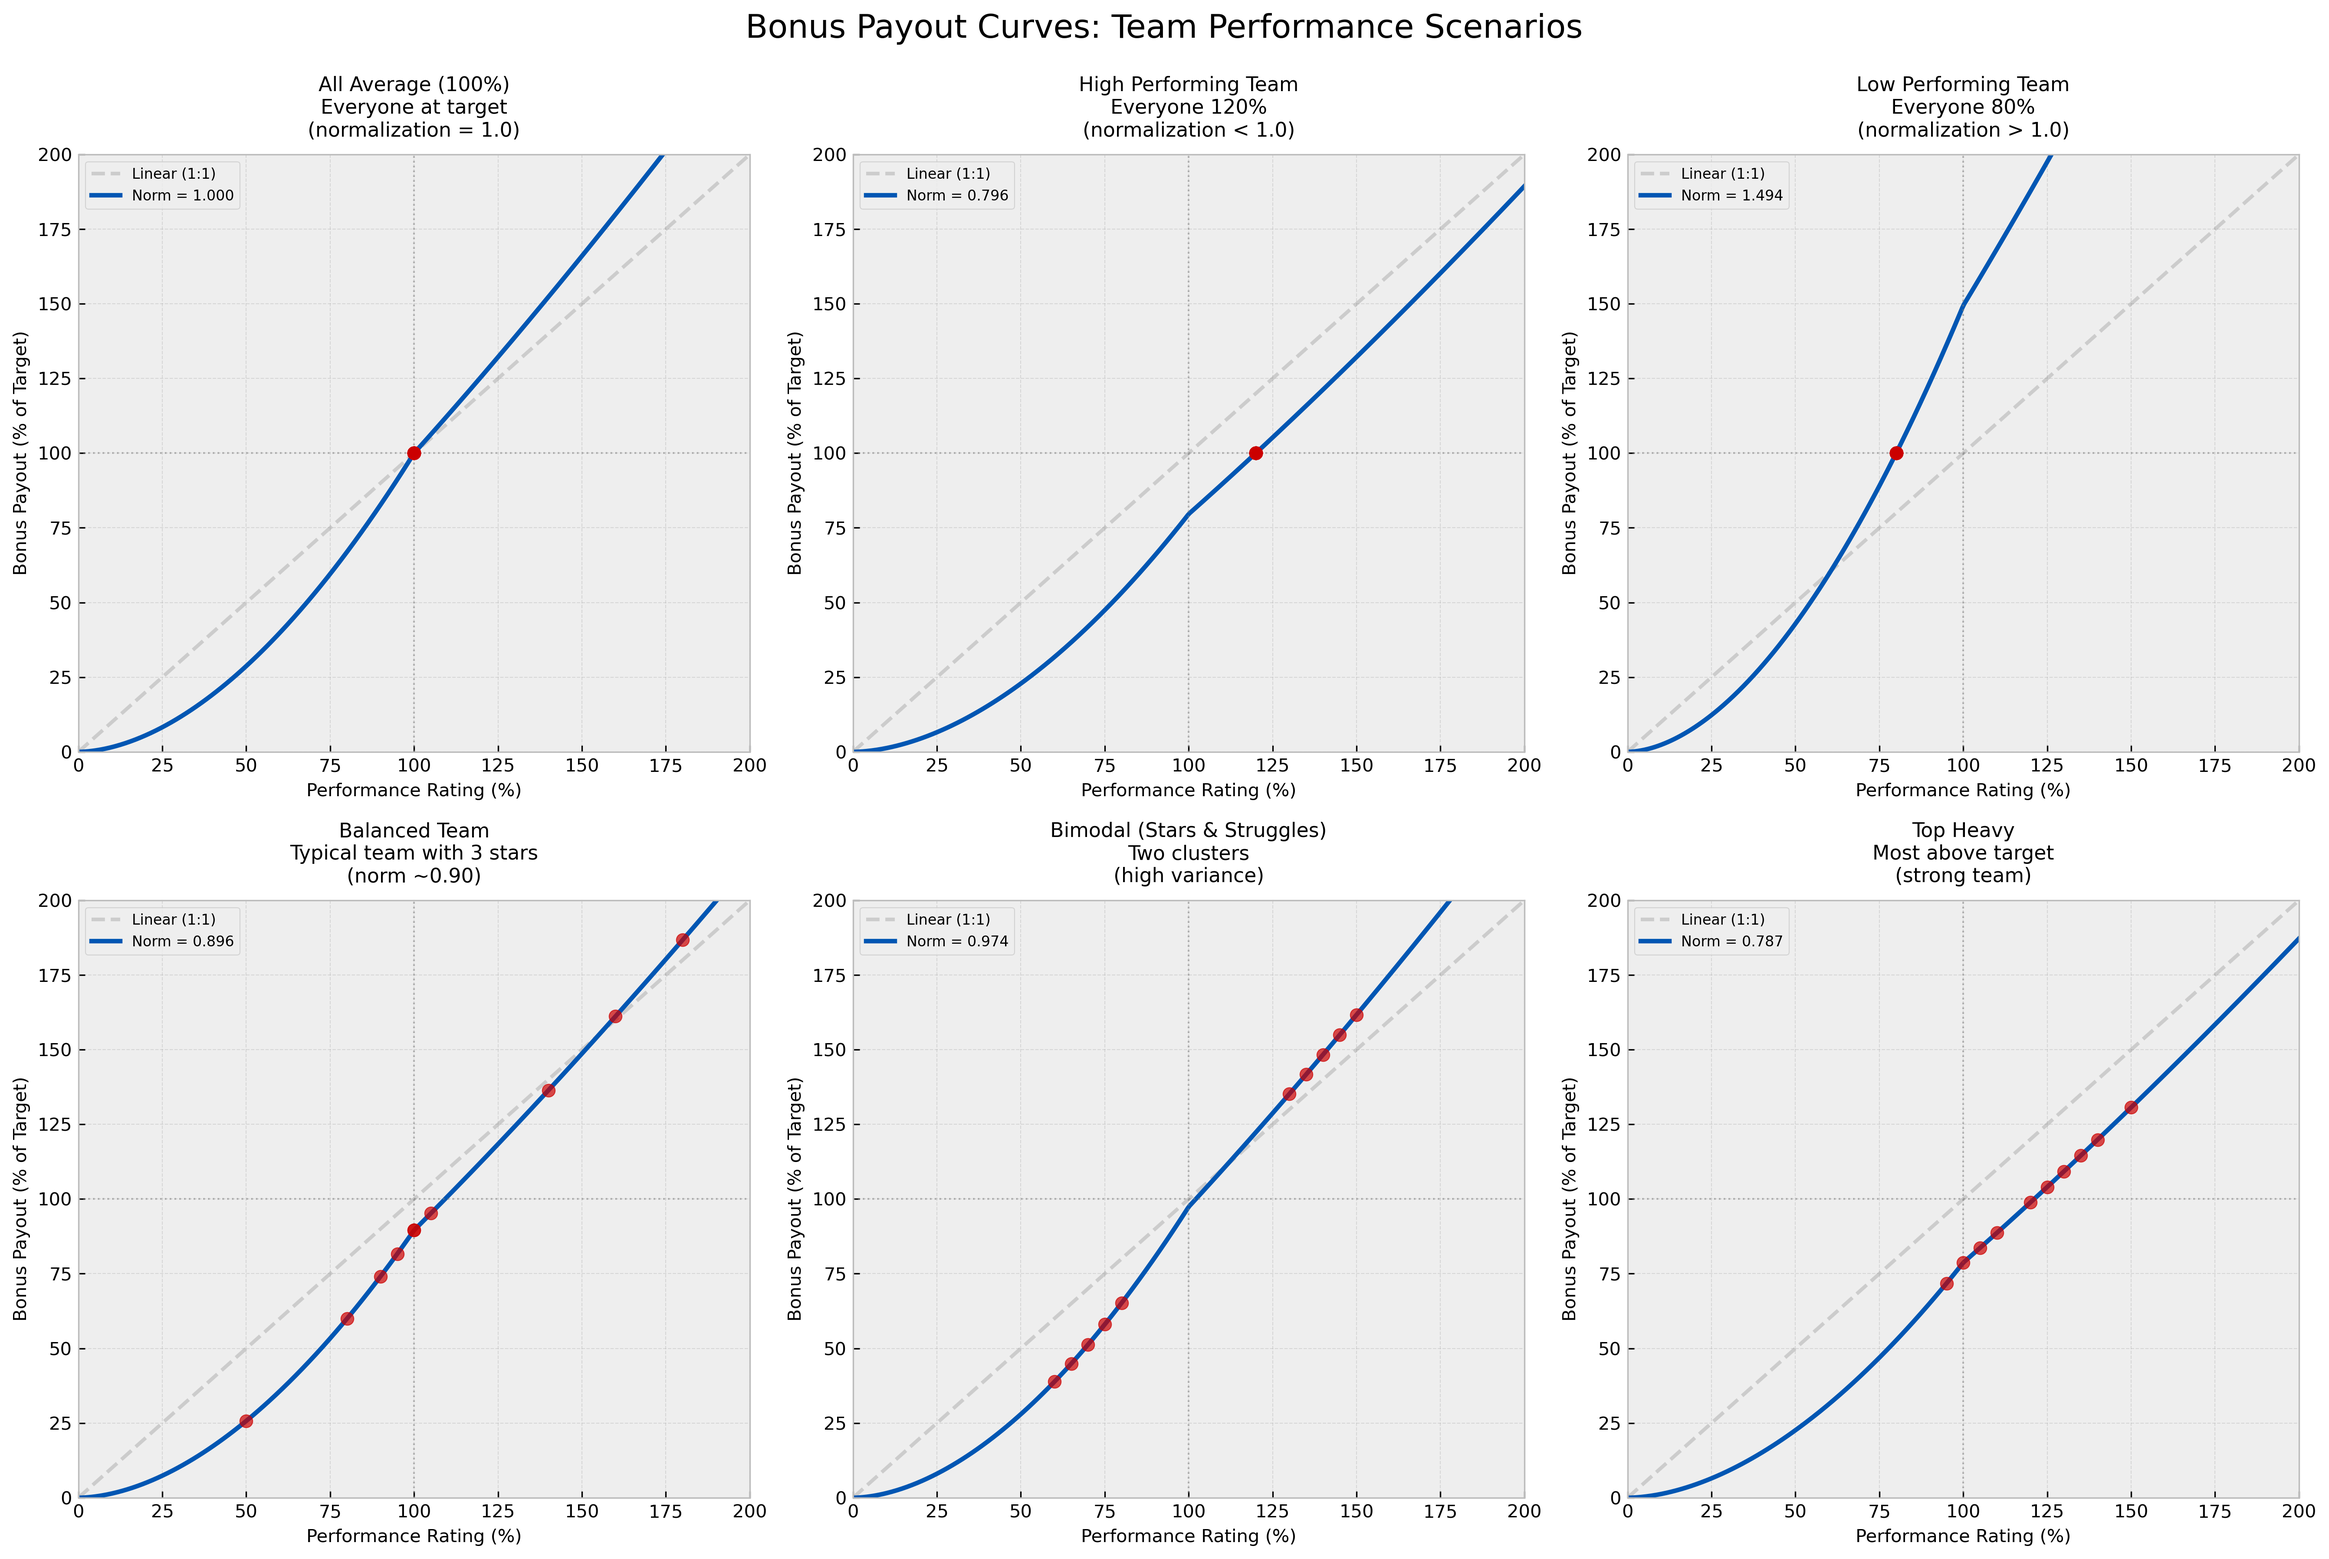
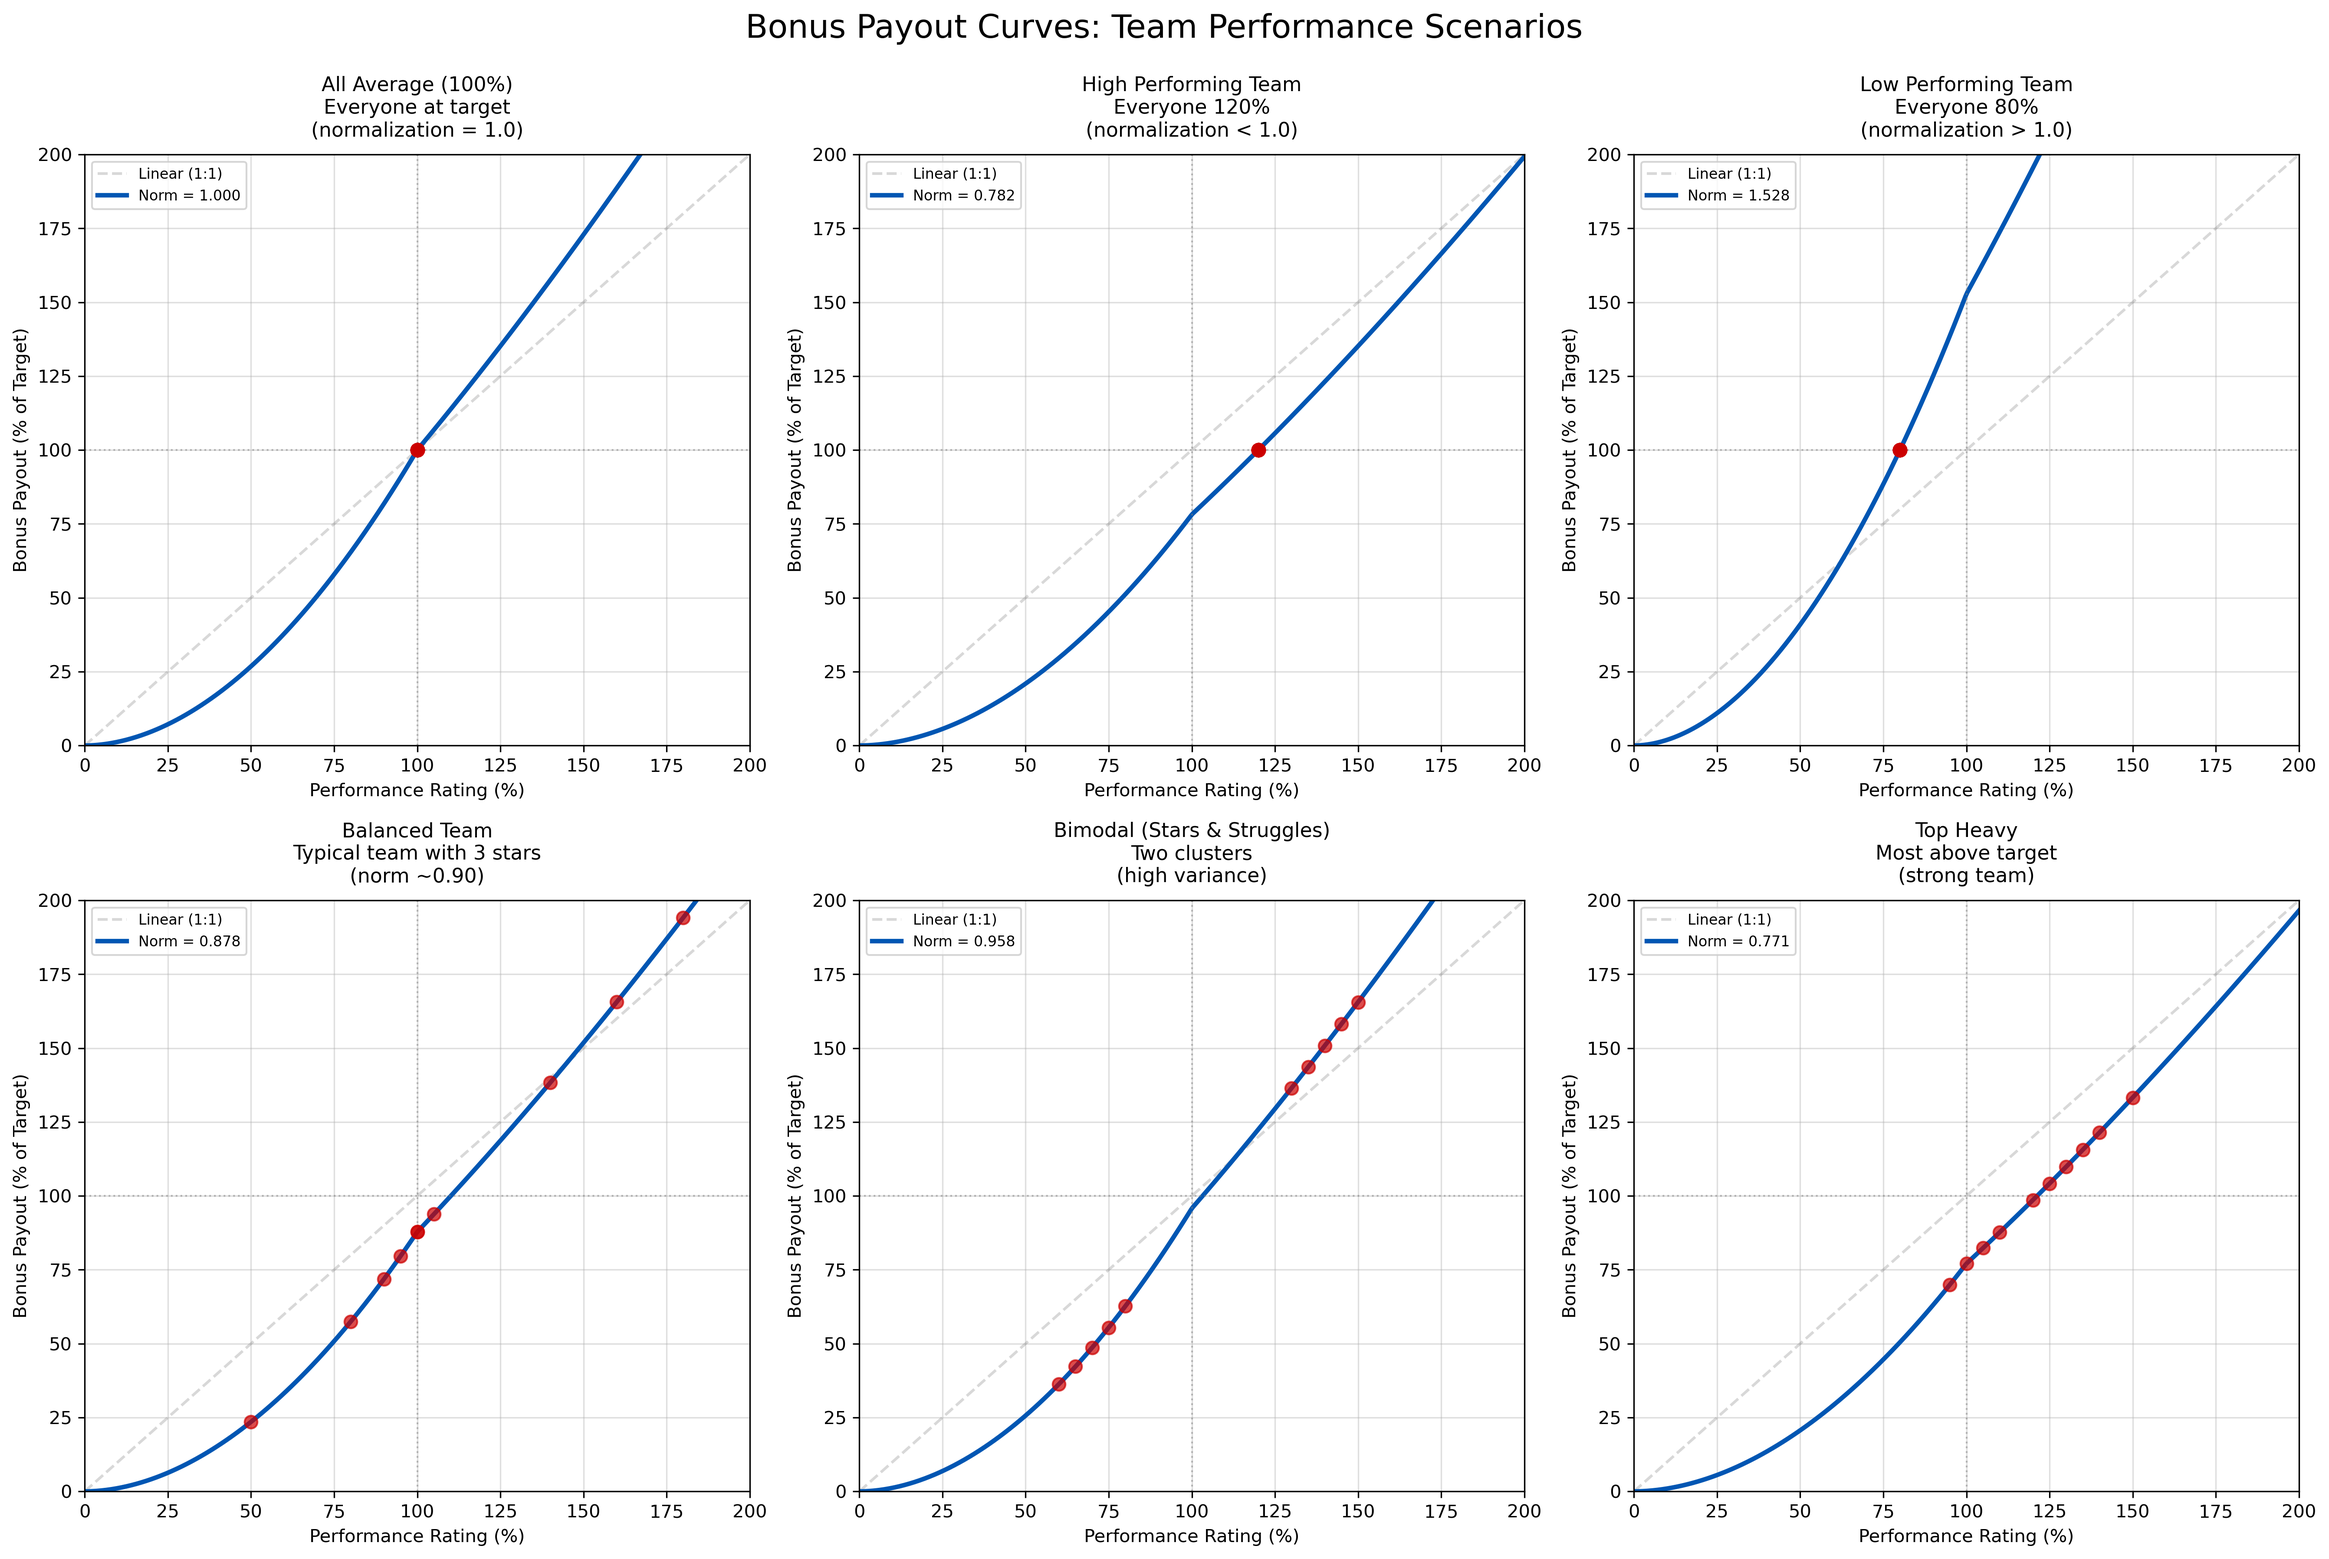
Fine-tune bonus algorithm parameters
Update bonus calculation exponents for more aggressive differentiation:
- Increase upside exponent from 1.25 to 1.35 (stronger rewards for high performers)
- Increase downside exponent from 1.8 to 1.9 (adjusted penalties for underperformers)

Impact examples:
- 120% rating: now gets 128% of target (was 123%)
- 80% rating: now gets 65% of target (was 62%)

Updated files:
- app.py: Default parameter values
- generate_bonus_curve_realistic.py: Matching constants
- BONUS_CALCULATION_README.md: Documentation and examples
- README.md: Quick start guide
- AGENTS.md: Architectural documentation
- templates/bonus_calculation.html: UI help text
- bonus-curve-realistic-scenarios.png: Regenerated chart with new parameters

All 86 tests pass.

🤖 Generated with [Claude Code](https://claude.com/claude-code)

diff --git a/templates/bonus_calculation.html b/templates/bonus_calculation.html
@@ -208,14 +208,14 @@
                     <label for="upside_exponent">Upside Exponent</label>
                     <input type="number" step="0.01" id="upside_exponent" name="upside_exponent"
                            value="{{ params.upside_exponent }}" required>
-                    <span class="config-help">Exponential reward for rating ≥ 100% (e.g., 1.25)</span>
+                    <span class="config-help">Exponential reward for rating ≥ 100% (e.g., 1.35)</span>
                 </div>
 
                 <div class="config-input">
                     <label for="downside_exponent">Downside Exponent</label>
                     <input type="number" step="0.01" id="downside_exponent" name="downside_exponent"
                            value="{{ params.downside_exponent }}" required>
-                    <span class="config-help">Exponential penalty for rating < 100% (e.g., 1.8)</span>
+                    <span class="config-help">Exponential penalty for rating < 100% (e.g., 1.9)</span>
                 </div>
 
                 <div class="config-input">

diff --git a/generate_bonus_curve_realistic.py b/generate_bonus_curve_realistic.py
@@ -29,8 +29,8 @@ from typing import List, Tuple
 
 
 # Configuration parameters matching app.py bonus calculation defaults
-UPSIDE_EXPONENT = 1.25      # Exponent for ratings >= 100%
-DOWNSIDE_EXPONENT = 1.8     # Exponent for ratings < 100%
+UPSIDE_EXPONENT = 1.35      # Exponent for ratings >= 100%
+DOWNSIDE_EXPONENT = 1.9     # Exponent for ratings < 100%
 
 # Chart settings
 RATING_MIN = 0              # Minimum performance rating (%)

diff --git a/app.py b/app.py
@@ -428,8 +428,8 @@ def bonus_calculation():
     """Bonus calculation page with configurable parameters."""
     # Default configuration parameters
     default_params = {
-        'upside_exponent': 1.25,
-        'downside_exponent': 1.8,
+        'upside_exponent': 1.35,
+        'downside_exponent': 1.9,
         'cr_power': 0.5
     }
 

diff --git a/BONUS_CALCULATION_README.md b/BONUS_CALCULATION_README.md
@@ -45,8 +45,8 @@ For each employee, we calculate:
 1. **Performance Multiplier**
    - If rating < 100%: `(rating/100) ^ downside_exponent`
    - If rating ≥ 100%: `(rating/100) ^ upside_exponent`
-   - Example: With defaults, a 120% rating gets `1.20^1.25 = 1.23x` their target
-   - Example: With defaults, an 80% rating gets `0.80^1.8 = 0.62x` their target
+   - Example: With defaults, a 120% rating gets `1.20^1.35 = 1.28x` their target
+   - Example: With defaults, an 80% rating gets `0.80^1.9 = 0.65x` their target
 
 2. **Compa-Ratio Adjustment** (Future Enhancement)
    - Currently set to 1.0 (neutral) for everyone
@@ -65,22 +65,22 @@ For each employee, we calculate:
 
 You can experiment with three parameters to adjust how aggressive the curve is:
 
-### Upside Exponent (Default: 1.25)
+### Upside Exponent (Default: 1.35)
 - Controls the reward for ratings ≥ 100%
 - **Higher value** (e.g., 1.5): More aggressive rewards for top performers
 - **Lower value** (e.g., 1.0): More linear, less exponential reward
 - Example impact on 120% rating:
   - At 1.0: 120% of target
-  - At 1.25: 123% of target
-  - At 1.5: 126% of target
+  - At 1.35: 128% of target
+  - At 1.5: 131% of target
 
-### Downside Exponent (Default: 1.8)
+### Downside Exponent (Default: 1.9)
 - Controls the penalty for ratings < 100%
 - **Higher value** (e.g., 2.0): Harsher penalties for underperformance
 - **Lower value** (e.g., 1.5): Softer penalties
 - Example impact on 80% rating:
-  - At 1.5: 71% of target
-  - At 1.8: 62% of target
+  - At 1.5: 72% of target
+  - At 1.9: 65% of target
   - At 2.0: 64% of target
 
 ### CR Power (Default: 0.5)
@@ -157,8 +157,8 @@ If some rated employees don't appear in the calculation, they're likely missing 
 - Result: Large spread, top performers get much more
 
 ### Scenario 3: Balanced (Default)
-- Upside: 1.25 (meaningful rewards)
-- Downside: 1.8 (appropriate penalties)
+- Upside: 1.35 (meaningful rewards)
+- Downside: 1.9 (appropriate penalties)
 - Result: Reasonable differentiation while staying fair
 
 ## Workflow Recommendation

diff --git a/README.md b/README.md
@@ -146,8 +146,8 @@ Open http://localhost:5000 and navigate to **Rate Team** to begin.
 ### 3. Calculate Bonuses
 - Navigate to **Bonus Calculation** tab
 - Review default parameters:
-  - **Upside Exponent** (1.25): Rewards for ratings ≥ 100%
-  - **Downside Exponent** (1.8): Penalties for ratings < 100%
+  - **Upside Exponent** (1.35): Rewards for ratings ≥ 100%
+  - **Downside Exponent** (1.9): Penalties for ratings < 100%
   - **CR Power** (0.5): Compa-Ratio influence (future feature)
 - Adjust parameters if needed
 - Click **Recalculate** to see results

diff --git a/AGENTS.md b/AGENTS.md
@@ -166,8 +166,8 @@ To achieve similar results with AI assistance:
 
 #### Split Curve Algorithm
 - Different exponents for above/below 100% performance
-- **Upside exponent** (default 1.25): Rewards for ratings ≥ 100%
-- **Downside exponent** (default 1.8): Penalties for ratings < 100%
+- **Upside exponent** (default 1.35): Rewards for ratings ≥ 100%
+- **Downside exponent** (default 1.9): Penalties for ratings < 100%
 - More aggressive penalties than rewards (intentional asymmetry)
 
 ### Don't Break These
